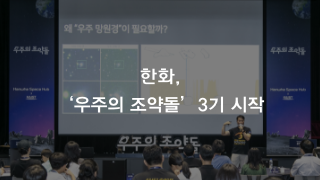
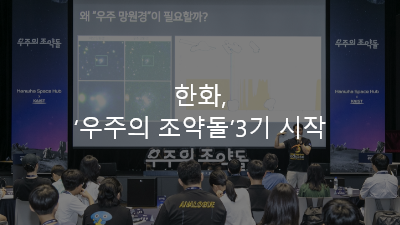
문구 및 팝업 사이즈 수정

diff --git a/src/scss/_main.scss b/src/scss/_main.scss
@@ -1005,9 +1005,9 @@ main.main {
 		
 		a{
 			// 배너 - 카운트다운, 우주의조약돌, 유튜브링크 공통
-			position: absolute; right: 56px; bottom: 128px; width: 328px; height: 180px; transition: all 0.8s $ease-inout-quart; pointer-events: auto;
+			position: absolute; right: 56px; bottom: 128px; width: 400px; height: 225px; transition: all 0.8s $ease-inout-quart; pointer-events: auto;
 			// 배너 - 유튜브링크만 추가 start
-			width: 320px; height: 180px;
+			width: 400px; height: 225px;
 			// 배너 - 유튜브링크만 추가 end
 
 			&:after {position: absolute; left: -4px; right: -4px; top: -4px; bottom: -4px; content: ''; border: 1px solid rgba(#f37331, 0.4);; transition: all 0.8s $ease-inout-quart; pointer-events: none;}
@@ -1017,7 +1017,7 @@ main.main {
 			}
 
 			@include mobile {
-				right: 30px; bottom: 60px; width: 148px; height: 84px;
+				right: 30px; bottom: 60px; width: 185px; height: 105px;
 				&:after {left: -2px; right: -2px; top: -2px; bottom: -2px;}
 				span {font-size: 14px; padding: 0 10px;}
 			}

diff --git a/index.html b/index.html
@@ -74,7 +74,7 @@
 				<div class="inwrap">
 					<div class="texts">
 						<h3 class="title elt-s elt-c">
-							<em class="font-hh">Space Hub</em>는 우주를 향한<br class="mobile">지름길을 찾아<br class="web">
+							<em class="font-hh">Space Hub</em>는 우주를 향한<br class="mobile"> 지름길을 찾아<br class="web">
 							보다 혁신적인 발사체를 <br class="mobile">연구하고 있습니다.
 						</h3>
 						<p class="text">
